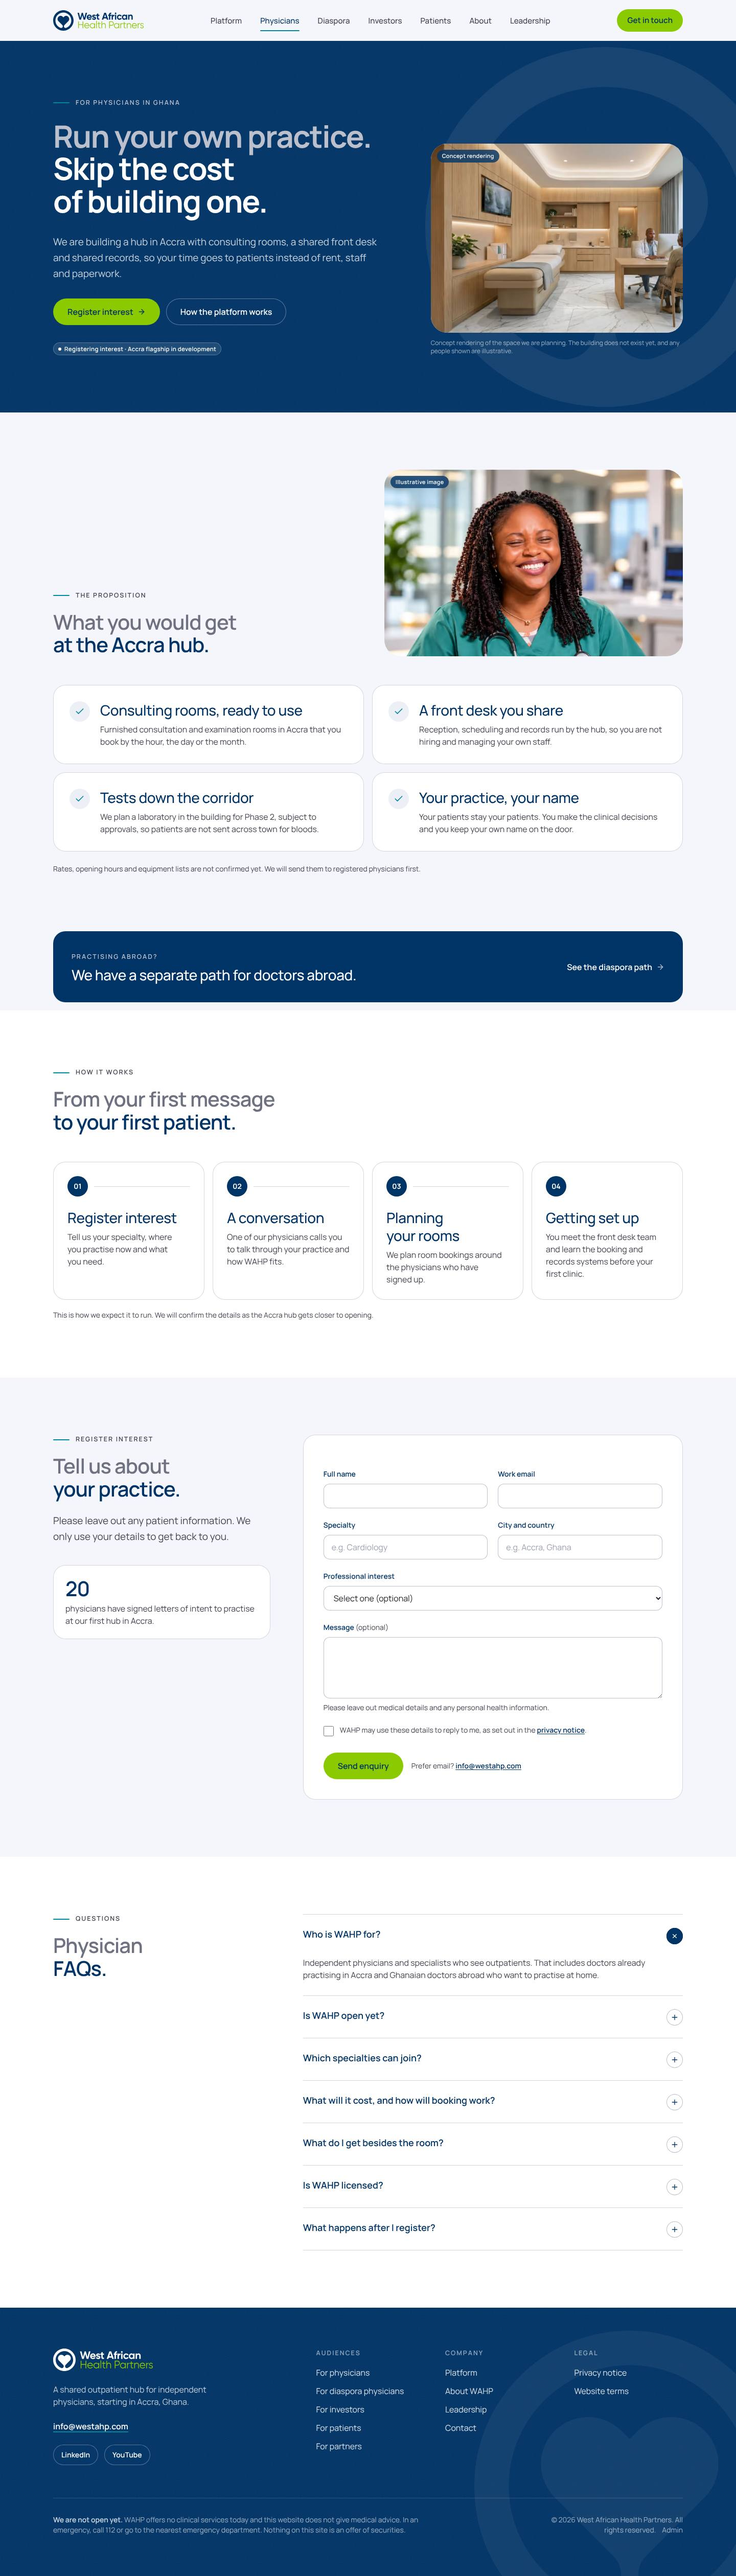
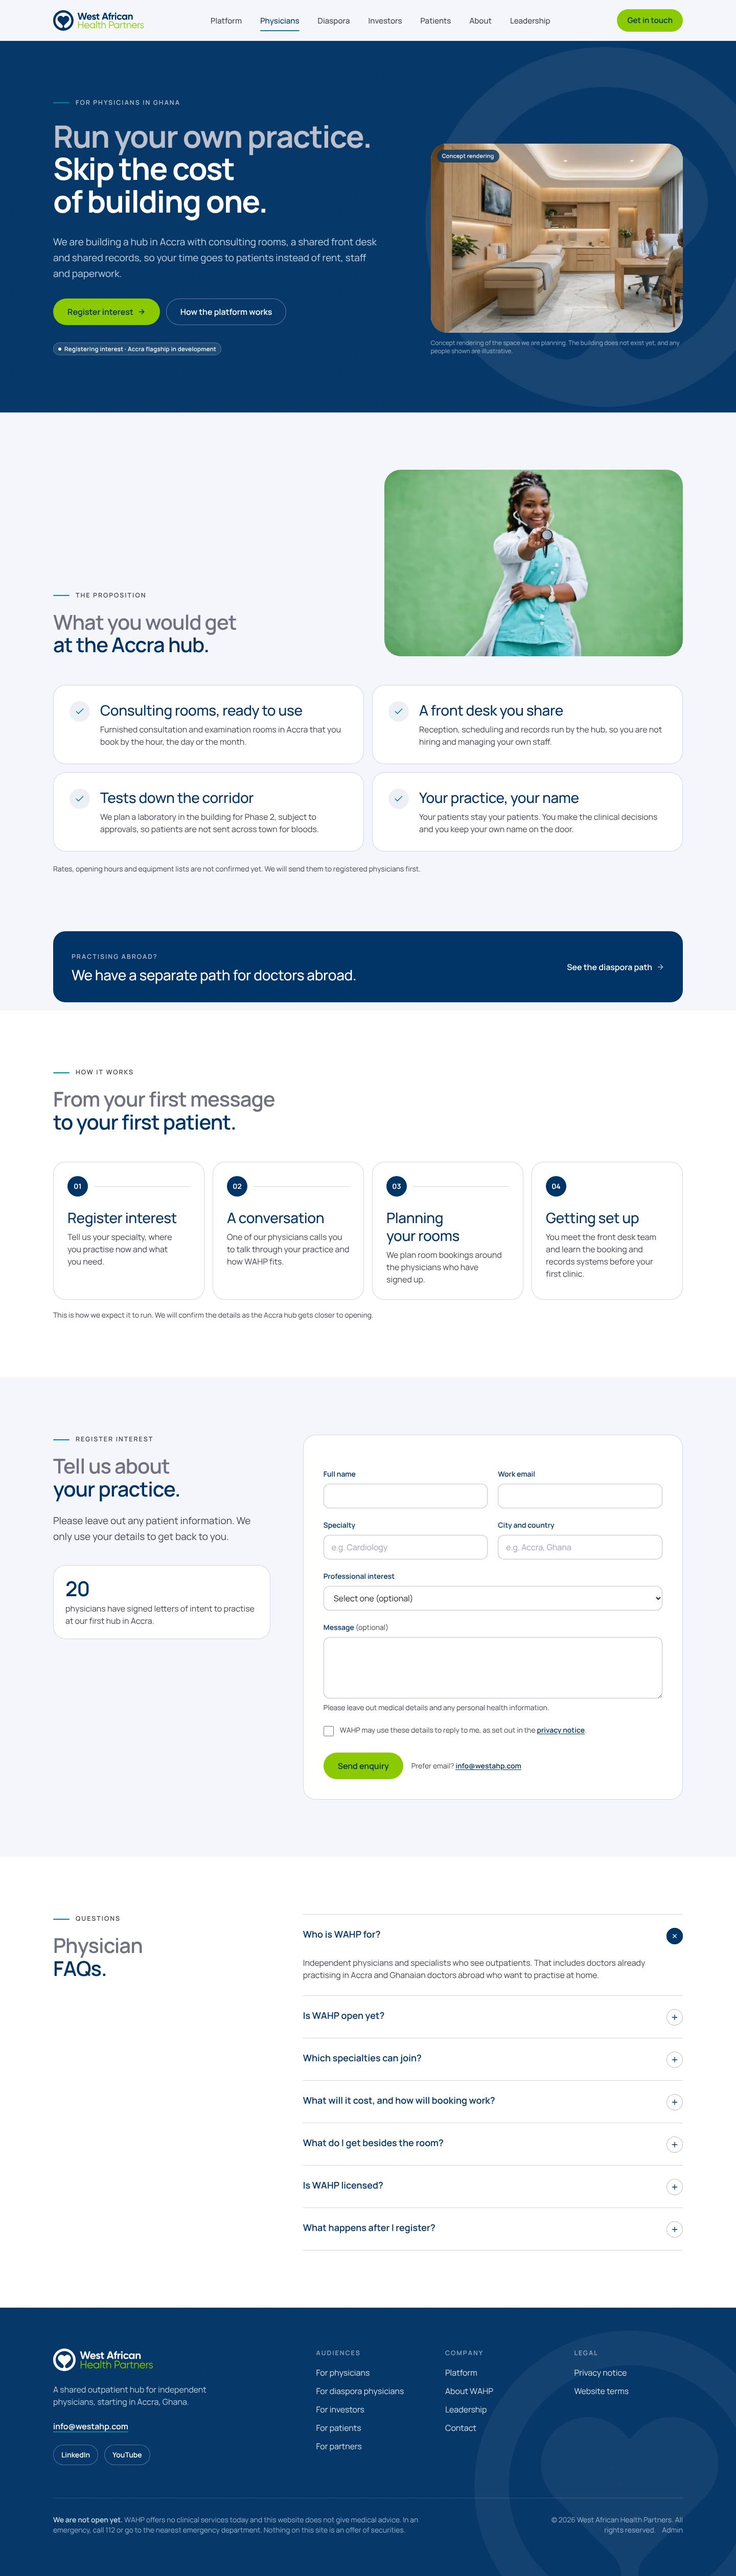
Use the owner's new photo on the Physicians page
The "What you would get at the Accra hub" section now shows the owner's
photo of a doctor holding out a stethoscope, framed from the top so the
face stays in view. The previous photo and its Terms credit are removed.

Claude-Session: https://claude.ai/code/session_01HnAJZsQvwk15KduVTL9xGz

Changed region(s): [[0.5, 0.1558, 0.9375, 0.2804]]

diff --git a/src/components/ui/site-image.tsx b/src/components/ui/site-image.tsx
@@ -15,7 +15,7 @@ import midwivesNewborn from "../../../public/images/photos/midwives-newborn.webp
 import nurseChildWard from "../../../public/images/photos/nurse-child-ward.webp";
 import villageHospitalYard from "../../../public/images/photos/village-hospital-yard.webp";
 import physicianLaptop from "../../../public/images/photos/physician-laptop.webp";
-import doctorClinicKinshasa from "../../../public/images/photos/doctor-clinic-kinshasa.webp";
+import physicianStethoscopeGreen from "../../../public/images/photos/physician-stethoscope-green.webp";
 import doctorStethoscope from "../../../public/images/photos/doctor-stethoscope.webp";
 import communityOutreach from "../../../public/images/photos/community-outreach.webp";
 
@@ -118,11 +118,11 @@ const images = {
     kind: "stock",
     alt: "A smiling physician in a white coat working at a laptop.",
   },
-  doctorClinicKinshasa: {
-    src: doctorClinicKinshasa,
-    kind: "illustrative",
-    position: "50% 30%",
-    alt: "A laughing doctor in green scrubs with a stethoscope in a bright clinic.",
+  physicianStethoscopeGreen: {
+    src: physicianStethoscopeGreen,
+    kind: "stock",
+    position: "50% 0%",
+    alt: "A smiling doctor in a white coat and teal scrubs holds a stethoscope out towards the camera.",
   },
   doctorStethoscope: {
     src: doctorStethoscope,

diff --git a/src/app/(site)/physicians/page.tsx b/src/app/(site)/physicians/page.tsx
@@ -69,7 +69,7 @@ export default function PhysiciansPage() {
             lead="What you would get"
             rest="at the Accra hub."
           />
-          <SiteImage name="doctorClinicKinshasa" className="reveal" aspect="aspect-[16/10]" />
+          <SiteImage name="physicianStethoscopeGreen" className="reveal" aspect="aspect-[16/10]" />
         </div>
         <ul className="mt-14 grid gap-4 md:grid-cols-2">
           {offer.map((o, i) => (

diff --git a/src/app/(site)/terms/page.tsx b/src/app/(site)/terms/page.tsx
@@ -45,12 +45,6 @@ const credits = [
     href: "https://www.pexels.com/photo/34185202/",
   },
   {
-    title: "A laughing woman in a doctor's gown (shown as an edited adaptation)",
-    by: "Carmel Nsenga",
-    licence: "Pexels licence",
-    href: "https://www.pexels.com/photo/18844981/",
-  },
-  {
     title: "Elderly people in the yard of a rural hospital",
     by: "Pexels contributor",
     licence: "Pexels licence",

diff --git a/docs/ASSET_INVENTORY.md b/docs/ASSET_INVENTORY.md
@@ -56,3 +56,5 @@
 **Home diaspora card (21 Oct 2026).** Owner-supplied `diaspora-doctor.webp` (612×431). **Licence to confirm:** the size matches an iStock/Getty preview, which needs a paid licence for web use. The Diaspora page hero still uses `doctor-stethoscope` (Unsplash).
 
 **Hub lobby video (21 Oct 2026).** Owner-supplied `gemini_generated_video_dec9a5dd.mp4`, AI-generated (Veo), showing a concept of the planned lobby with the WAHP logo. It was cropped to remove the Veo watermark, played forward then reversed into a seamless 16 s loop, made silent and saved as `public/video/hub-lobby.{webm,mp4}` (1.0 MB and 1.4 MB) with a poster frame. It is shown untinted on Home with a "Concept rendering of the planned hub" label. **Owner to confirm usage rights.**
+
+**Physicians page photo (22 Oct 2026).** `doctor-clinic-kinshasa` was removed. The proposition section now uses the owner-supplied `physician-stethoscope-green.webp` (740×492). **Licence to confirm:** the size matches a Freepik download, and Freepik's free licence requires an attribution line unless the image was bought.

diff --git a/docs/IMPLEMENTATION_LOG.md b/docs/IMPLEMENTATION_LOG.md
@@ -200,3 +200,7 @@
 
 - The static preview script only started the hero video, so the lobby band showed its poster. It now starts every background video: the hero at once, the others when scrolled into view. Each keeps its own pause control.
 - `LoopVideo` also sets the `muted` attribute itself before playing, because some mobile browsers only allow autoplay when that attribute is present.
+
+## 22 Oct 2026, new Physicians page photo
+
+- The proposition section on `/physicians` now uses the owner-supplied `physician-stethoscope-green.webp`, framed from the top so the face and stethoscope stay in view. The old `doctor-clinic-kinshasa` photo and its Terms credit were removed. Licence to confirm (see `ASSET_INVENTORY.md`).
